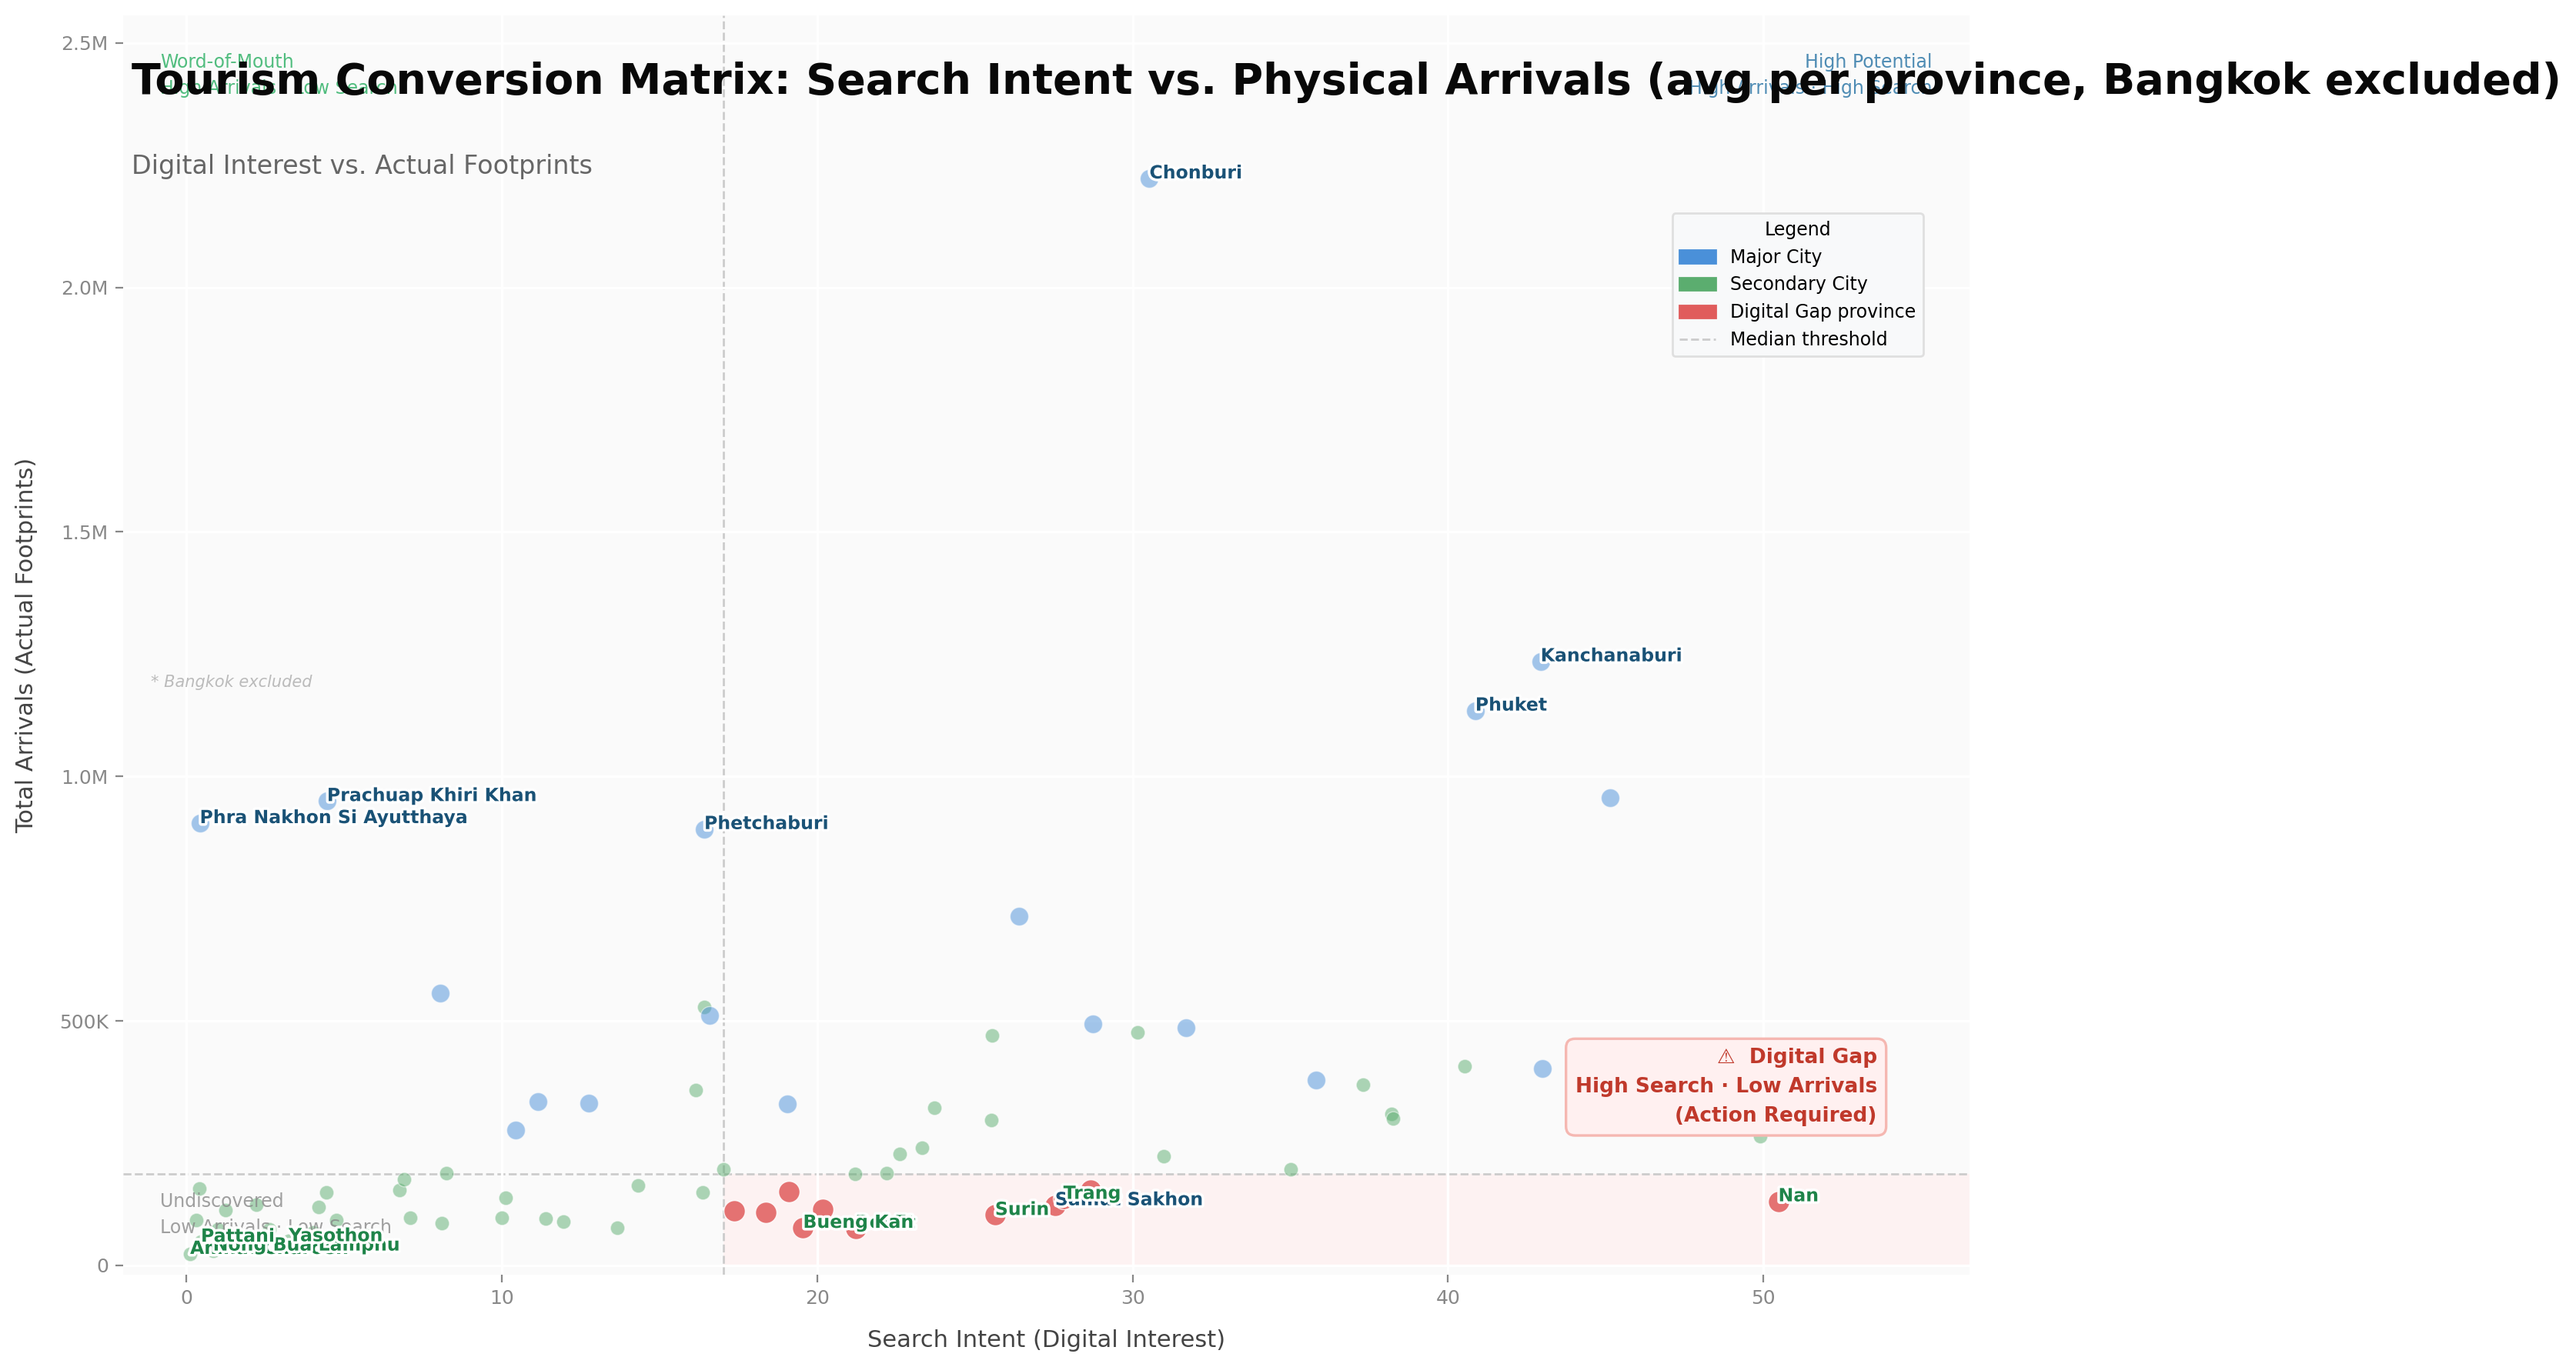
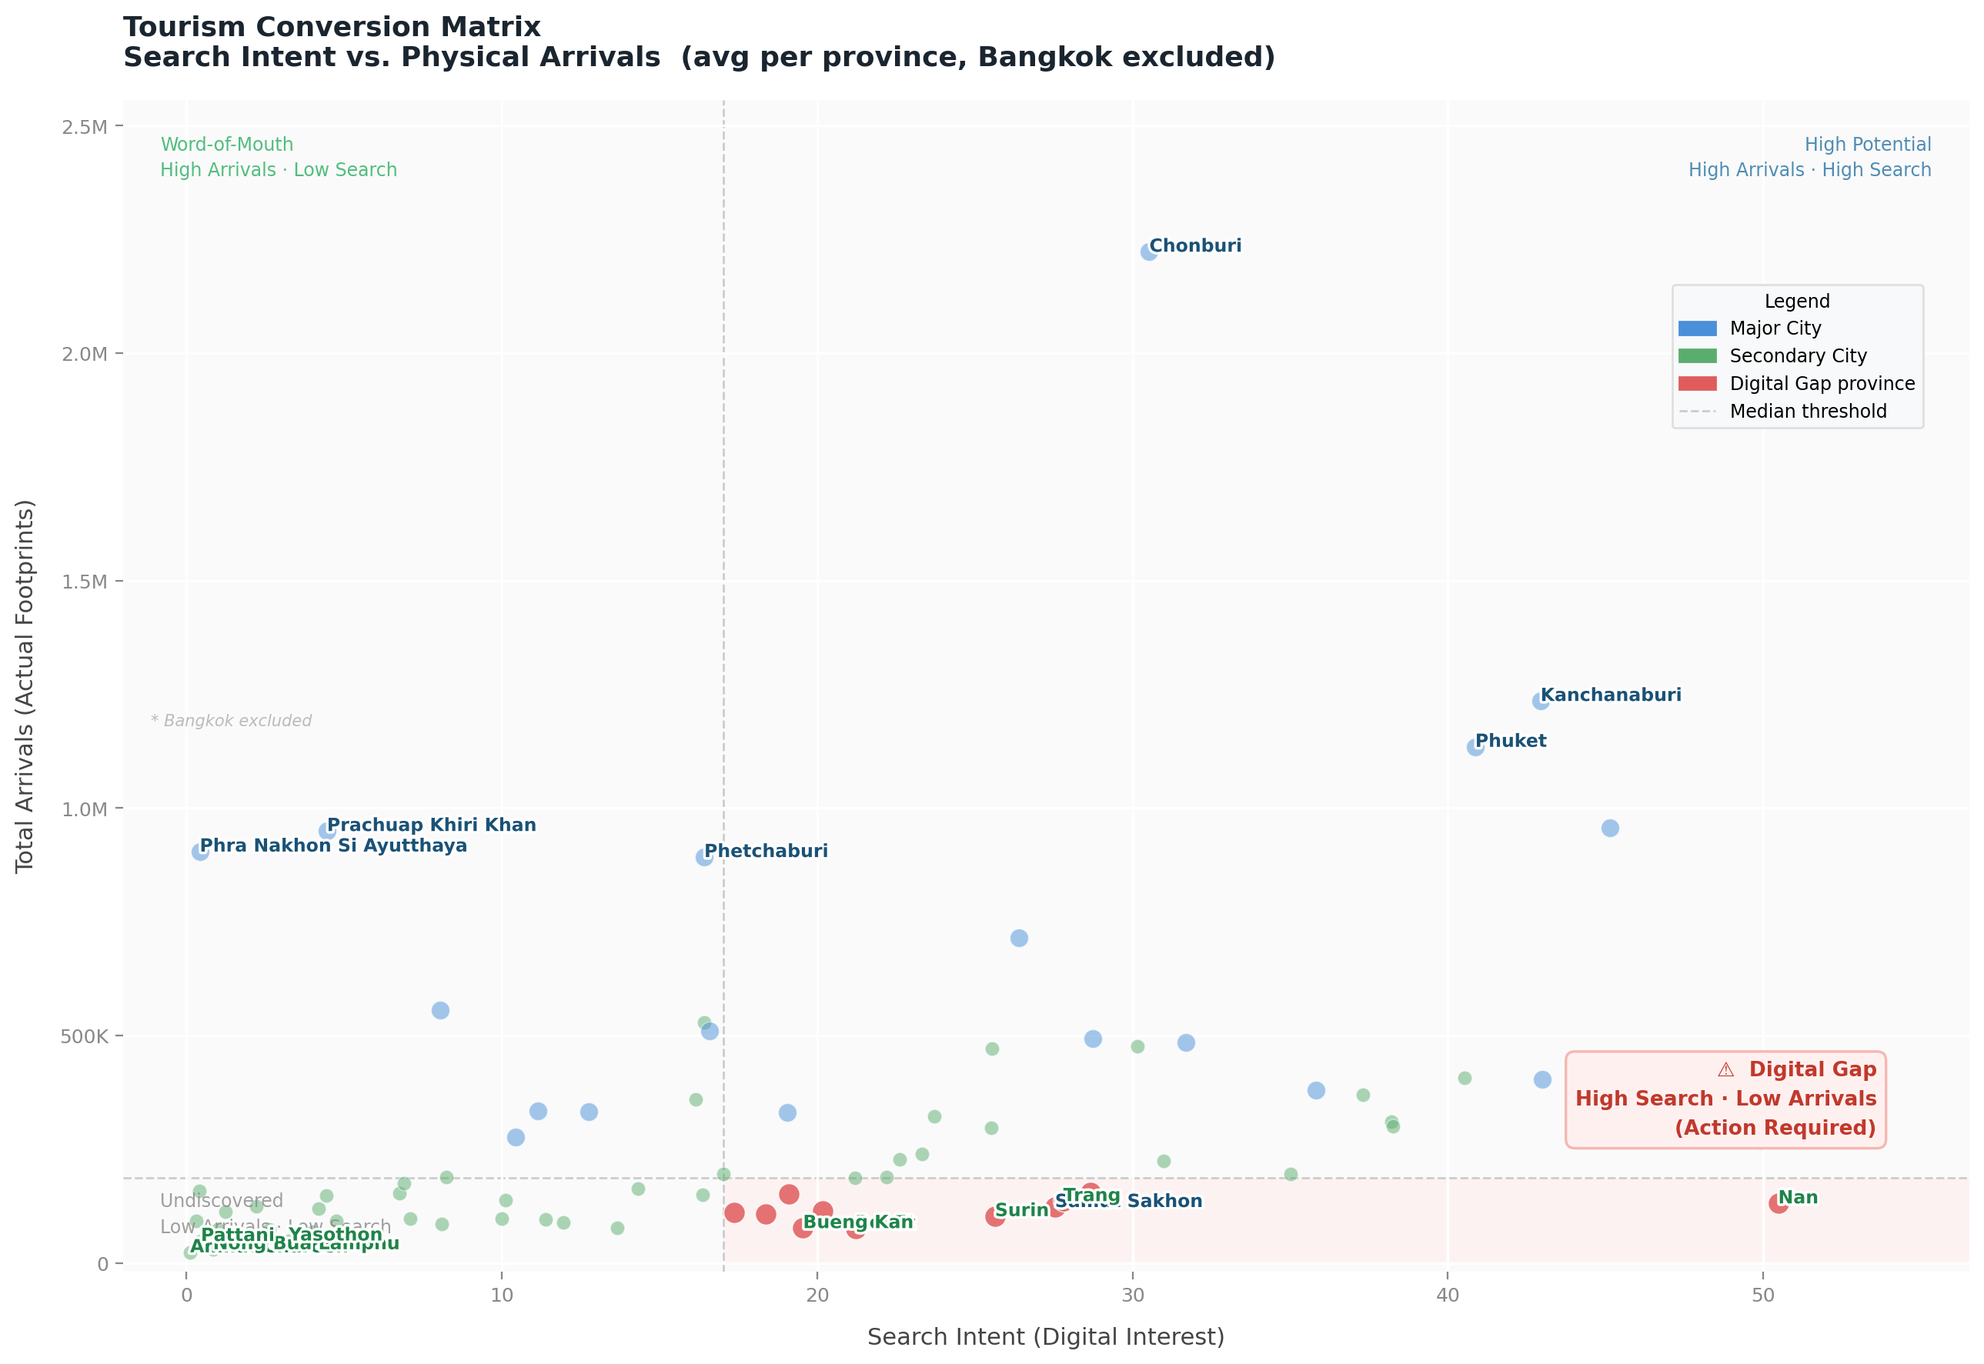
Revert: Restore original title and subtitle formatting in Conversion Efficiency figure

diff --git a/visualizations/03.1_ConversionEfficiency.py b/visualizations/03.1_ConversionEfficiency.py
@@ -141,16 +141,8 @@ ax.legend(handles=legend_handles, loc='upper right', bbox_to_anchor=(0.98, 0.85)
           fontsize=8.5, framealpha=0.92, edgecolor='#DDDDDD',
           title='Legend', title_fontsize=8.5)
 
-cfg = {
-    'title': 'Tourism Conversion Matrix: Search Intent vs. Physical Arrivals (avg per province, Bangkok excluded)',
-    'subtitle': 'Digital Interest vs. Actual Footprints'
-}
-
-# Remove figure number from title as per instructions
-fig.text(0.07, 0.92, cfg['title'], fontsize=20, fontweight='bold', color="#080808", va='bottom')
-fig.text(0.07, 0.865, cfg['subtitle'], fontsize=12, color='#666', va='bottom')
-
-# ...existing code...
+ax.set_title('Tourism Conversion Matrix\nSearch Intent vs. Physical Arrivals  (avg per province, Bangkok excluded)',
+             fontsize=13, fontweight='bold', color='#1A252F', loc='left', pad=16)
 ax.set_xlabel('Search Intent (Digital Interest)', fontsize=11, color='#444', labelpad=10)
 ax.set_ylabel('Total Arrivals (Actual Footprints)', fontsize=11, color='#444', labelpad=10)
 
